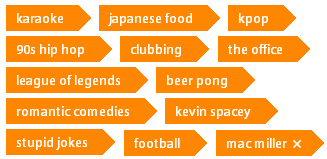
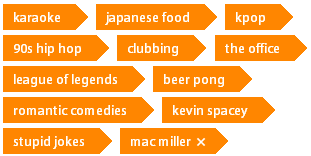
bottom half

diff --git a/public/css/hermesv1.css b/public/css/hermesv1.css
@@ -619,8 +619,8 @@ a.attend-button:hover {
 }
 .guide-one-image {
 	background-image: url('../images/guide-one-image.png');
-	width: 327px;
-	height: 159px;
+	width: 311px;
+	height: 156px;
 }
 .guide-two-image {
 	background-image: url('../images/guide-two-image.png');
